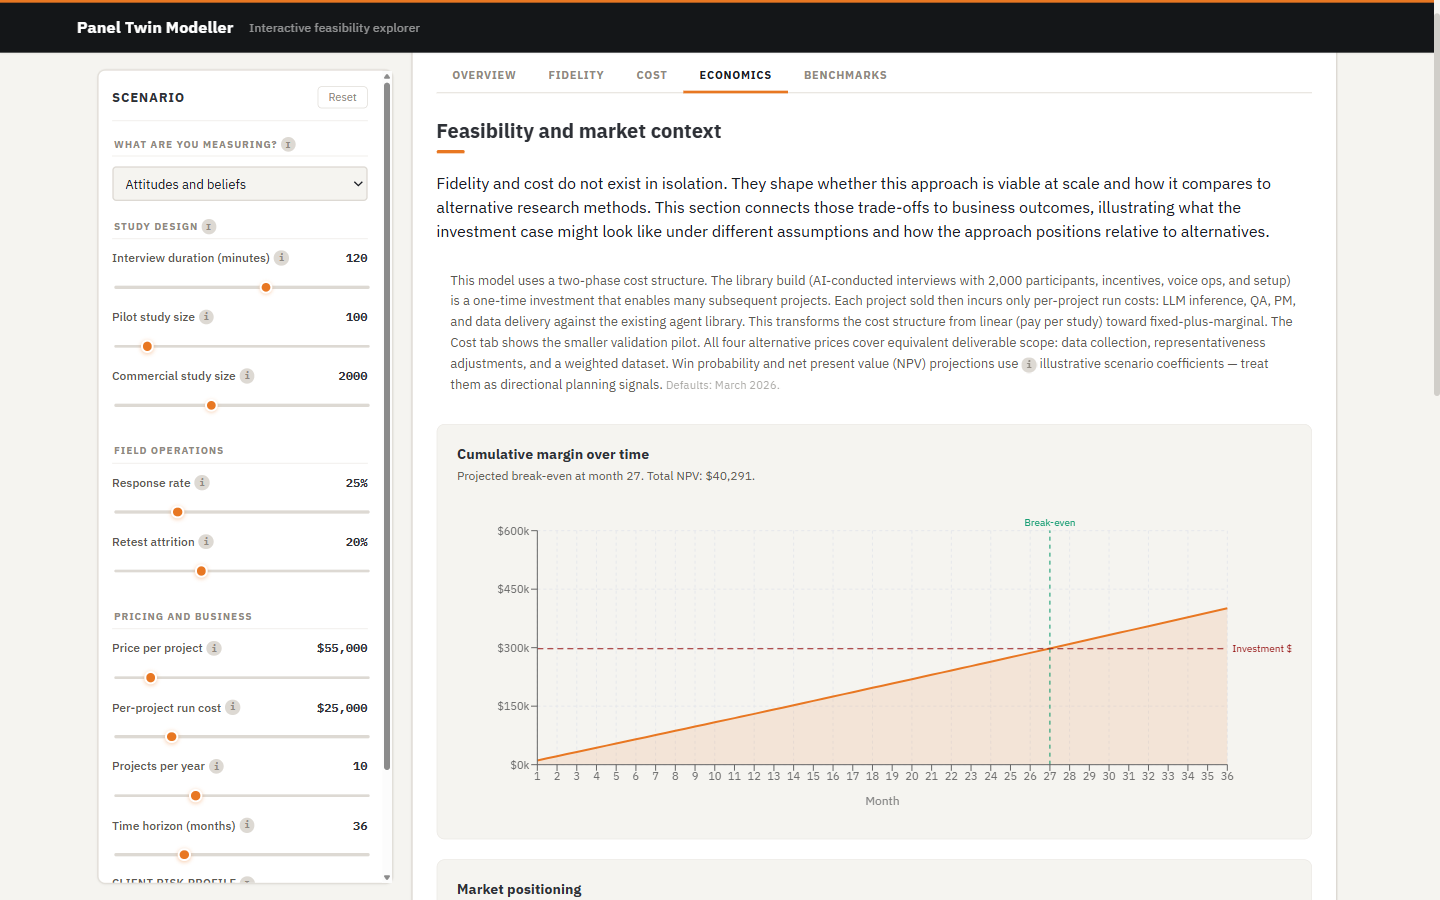
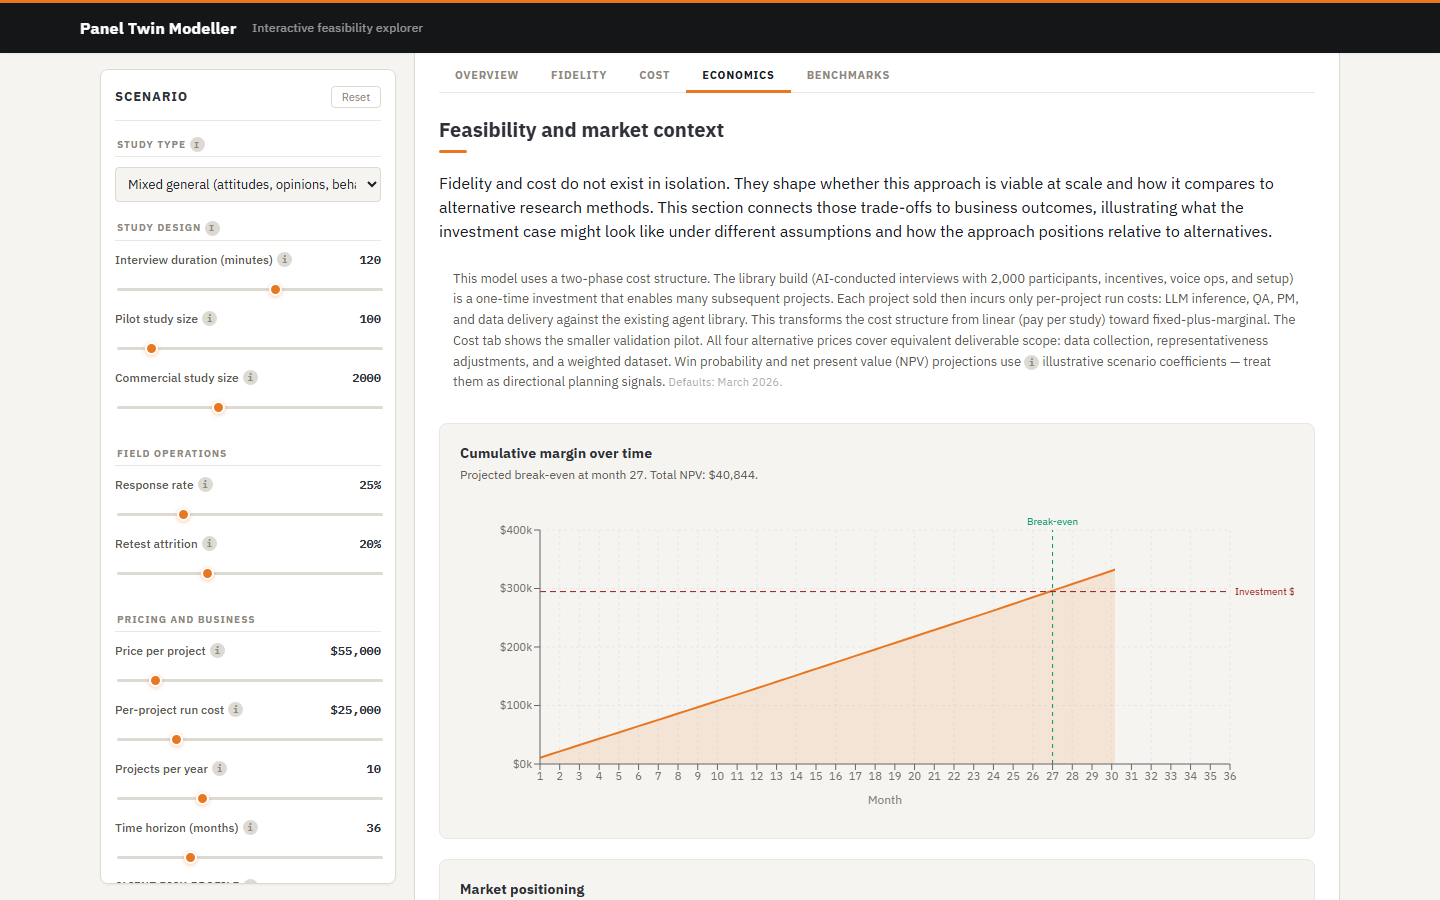
Docs and screenshot update for v0.2.5
- Retake hero screenshot: sidebar now shows 'Study type' and 'Mixed general
  (attitudes, opinions, behaviors)' reflecting the study-type reframe
- Fix architecture contradiction in design_decisions.md: Analytical Core section
  previously claimed to be 'the source of truth'; React Web App section now
  correctly identified as the actively maintained primary interface
- Update Quality Model section to use new study-type names (mixed general,
  behavioral recall, incentivized experiments) in place of old construct names
- Add v0.2.5 version entry documenting study-type reframe, labor simplification,
  overhead fix, and cost tab wording changes
- Bump document version to 0.2.5

diff --git a/docs/design_decisions.md b/docs/design_decisions.md
@@ -1,6 +1,6 @@
 # Design Decisions and Architecture
 
-Version: 0.2.4
+Version: 0.2.5
 Last updated: 2026-03-01
 Status: active working design record
 
@@ -212,11 +212,11 @@ Key modules:
 - `reporting.py`: writes artifacts and visualizations
 - `cli.py`: turns model logic into usable commands
 
-This layer is the source of truth for the model.
+This layer is preserved as a reference implementation. The `calibrate` command, which ingests pilot study CSVs and updates model parameters from observed data, is the one command with no browser equivalent and the primary reason to use the Python CLI directly.
 
 ### 2. React Web App
 
-The app in `docs-app/` is a React + TypeScript frontend built with Vite and deployed to GitHub Pages. It is the primary interface for exploring the model.
+The app in `docs-app/` is a React + TypeScript frontend built with Vite and deployed to GitHub Pages. It is the primary interface for exploring the model and the actively maintained implementation.
 
 It is designed to:
 - expose core assumptions interactively
@@ -224,7 +224,7 @@ It is designed to:
 - support fast scanning and deeper technical review
 - provide plain-language narrative alongside technical outputs
 
-The backend (`twin_econ/`) remains the authoritative model implementation. The React app ports that logic to TypeScript to run entirely client-side.
+The React app ports the core model logic to TypeScript to run entirely client-side. Default values, construct framing, and model calibrations are updated there first. Known divergences from the Python reference implementation are documented in the Known Issues section.
 
 ## Model Design Decisions
 
@@ -272,10 +272,10 @@ This was a deliberate design choice:
 
 The quality model is intentionally a transparent proxy model.
 
-It separates:
-- attitude/belief constructs
-- self-report behavior
-- incentivized behavior
+It separates three study types:
+- mixed general surveys (attitudes, opinions, and behavioral recall combined)
+- behavioral recall surveys (frequency and history items)
+- incentivized / economic experiments
 
 It uses configurable functional forms and memory assumptions rather than pretending to be a final empirically validated psychometric engine.
 
@@ -469,6 +469,29 @@ Both `configs/base.yaml` and `configs/federal_high_risk.yaml` still contain `pri
 In the competition model, `federal_risk_penalty` is subtracted from all utility values equally. Because softmax is shift-invariant, this does not change relative win probabilities among the four competitors. The intended interpretation is that the penalty represents an overall market-level headwind rather than a Panel Twin-specific disadvantage. If the goal is to model Panel Twin specifically losing market share in federal settings (relative to established alternatives), the penalty would need to apply only to Panel Twin's utility. The current behavior is documented in the landing page insight card for federal settings.
 
 ## Version Updates
+
+### 0.2.5 - 2026-03-01
+
+Study-type reframe, labor model simplification, overhead fix, and cost tab wording.
+
+**Study-type reframe**
+- Renamed the three study-type categories from construct-type framing to study-type framing: `attitude_belief` (0.85) → `mixed_general` (0.85), `self_report_behavior` (0.75) → `behavioral_recall` (0.80 — raised from 0.75 to better reflect the planning discount position), `incentivized_behavior` remains (0.66).
+- Rationale: the original framing implied a construct-type decision (what latent variable are you measuring?). In practice, researchers choose by study design (what kind of study is this?). Mixed general surveys combine attitudes, opinions, and behavioral recall — the most common design and the one directly paper-anchored via the GSS Core. Behavioral recall surveys focus on frequency or history items and are the only extrapolated category. Incentivized experiments remain paper-anchored at 0.66.
+- Labels updated across the dropdown ("Mixed general (attitudes, opinions, behaviors)", "Behavioral recall (frequency and history items)"), CONSTRUCT_LABELS maps, chart series names, tooltips, and quality tab methods text.
+- `constructMatch()` in `benchmarkModel.ts` was missing aliases for the new keys, causing benchmark thresholds to silently fall back to the manual default for both `mixed_general` and `behavioral_recall`. Fixed by adding bidirectional aliases mapping new keys to the old benchmark `construct_type` values.
+
+**Labor model simplification**
+- Collapsed six sidebar sliders (fully loaded hourly rate + protocol design / engineering / QA / PM / IRB compliance hours) into a single "Total staff cost" lump-sum input ($18,000 default, equal to the previous calculated total of 153 hours × $120/hr).
+- Rationale: individual hour breakdowns are error-prone since labor rates and role structures vary widely by organization. A lump-sum input correctly places the estimation burden on the user, who knows their own staffing, rather than on stylized defaults that no organization will actually match.
+
+**Overhead double-counting fix**
+- `overhead_rate` previously applied to all direct costs including labor. Since the "fully loaded hourly rate" was described as already including overhead (salary + benefits + facilities), applying overhead on top constituted double-counting on the labor line.
+- Fixed: overhead now applies only to non-labor direct costs (recruitment, incentives, voice ops, LLM, post-processing). The "Total staff cost" lump sum is not marked up further. Tooltip updated to clarify: set overhead to 0 if the staff figure is already fully loaded.
+- Sidebar label renamed from "Overhead rate" to "Indirect / overhead rate" for clarity.
+
+**Cost tab panel wording**
+- Removed bold "existing probability panel" phrasing from the Cost tab info callout. Reworded to "existing survey panel or sample source" — generic language that does not imply a specific named panel or proprietary relationship.
+- `cost_per_invite` tooltip updated to explicitly distinguish three cases: no chargeback ($0), internal departmental chargeback (set to the rate), and external vendor per-invite rate.
 
 ### 0.2.4 - 2026-03-01
 
